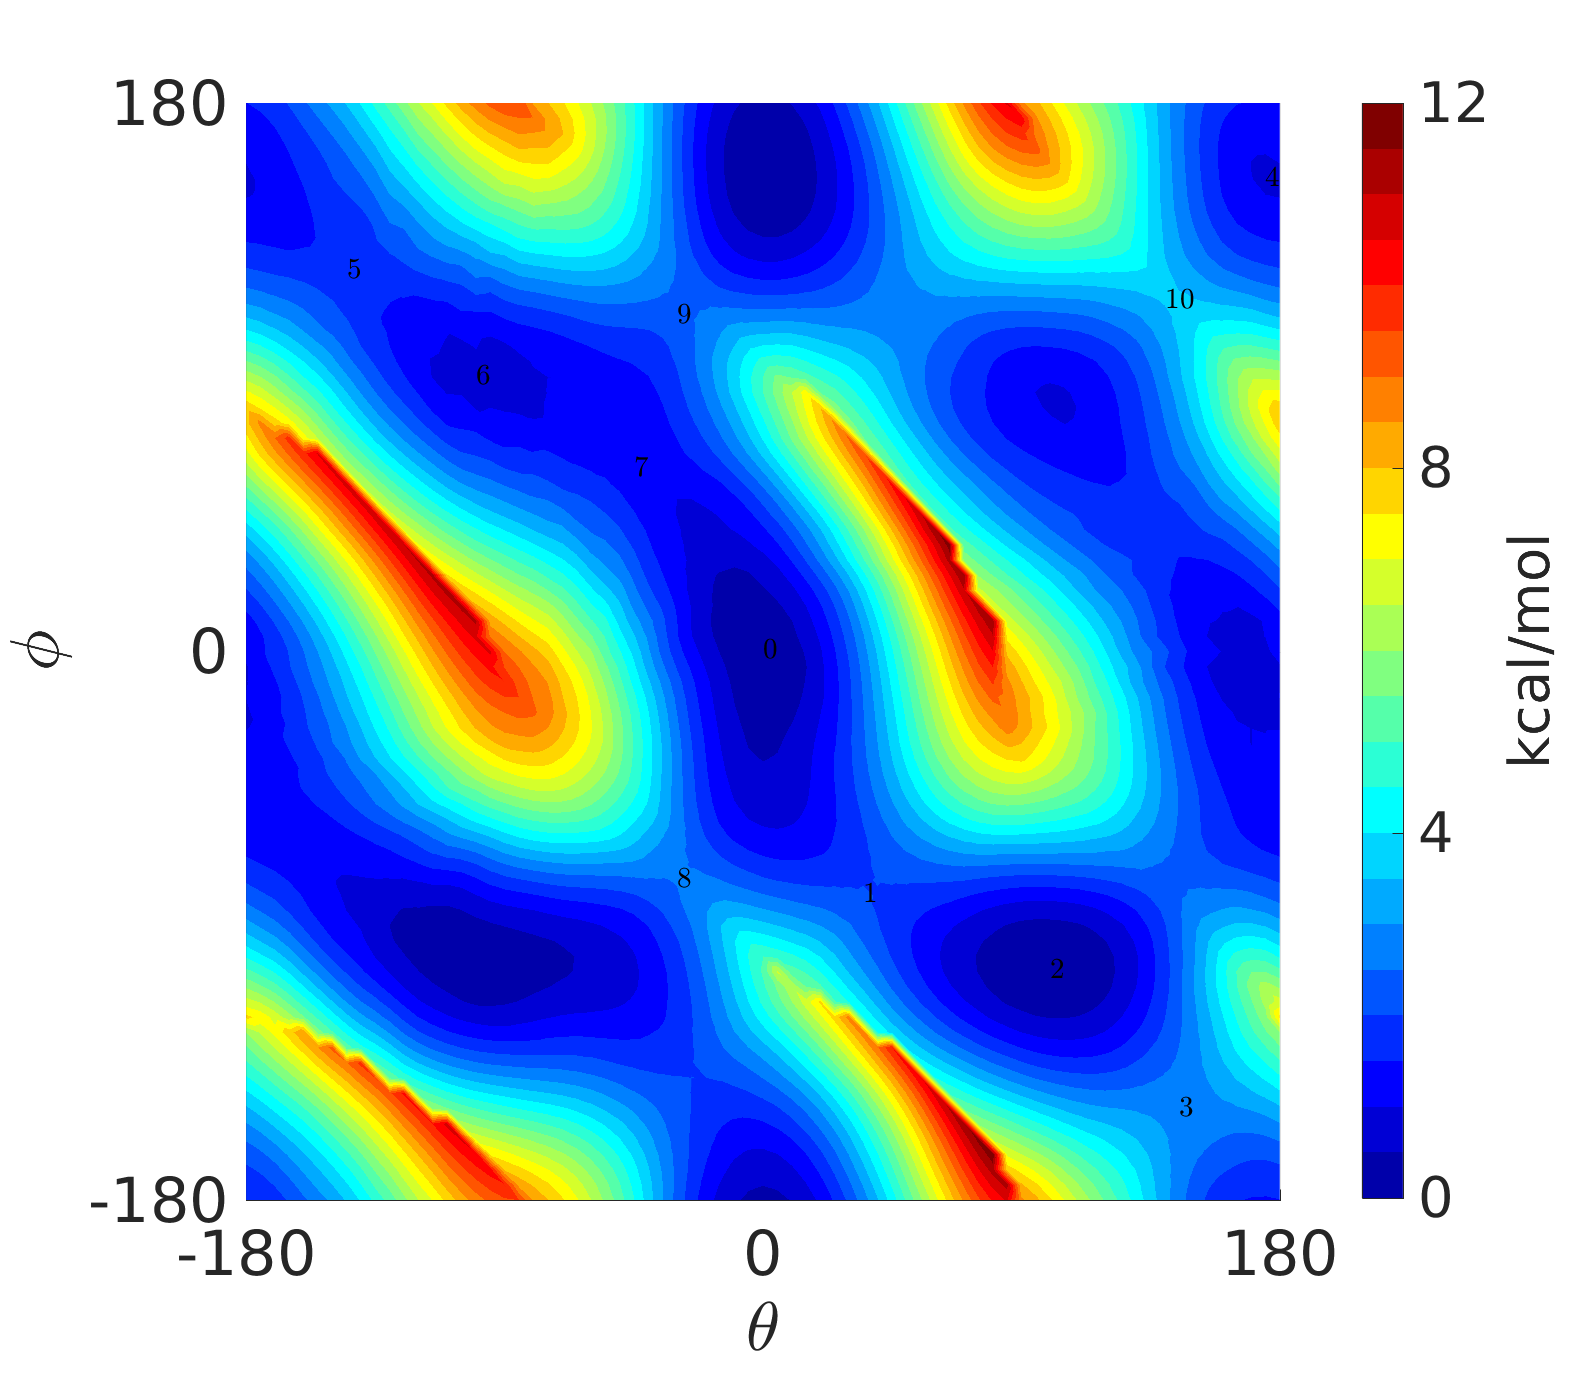
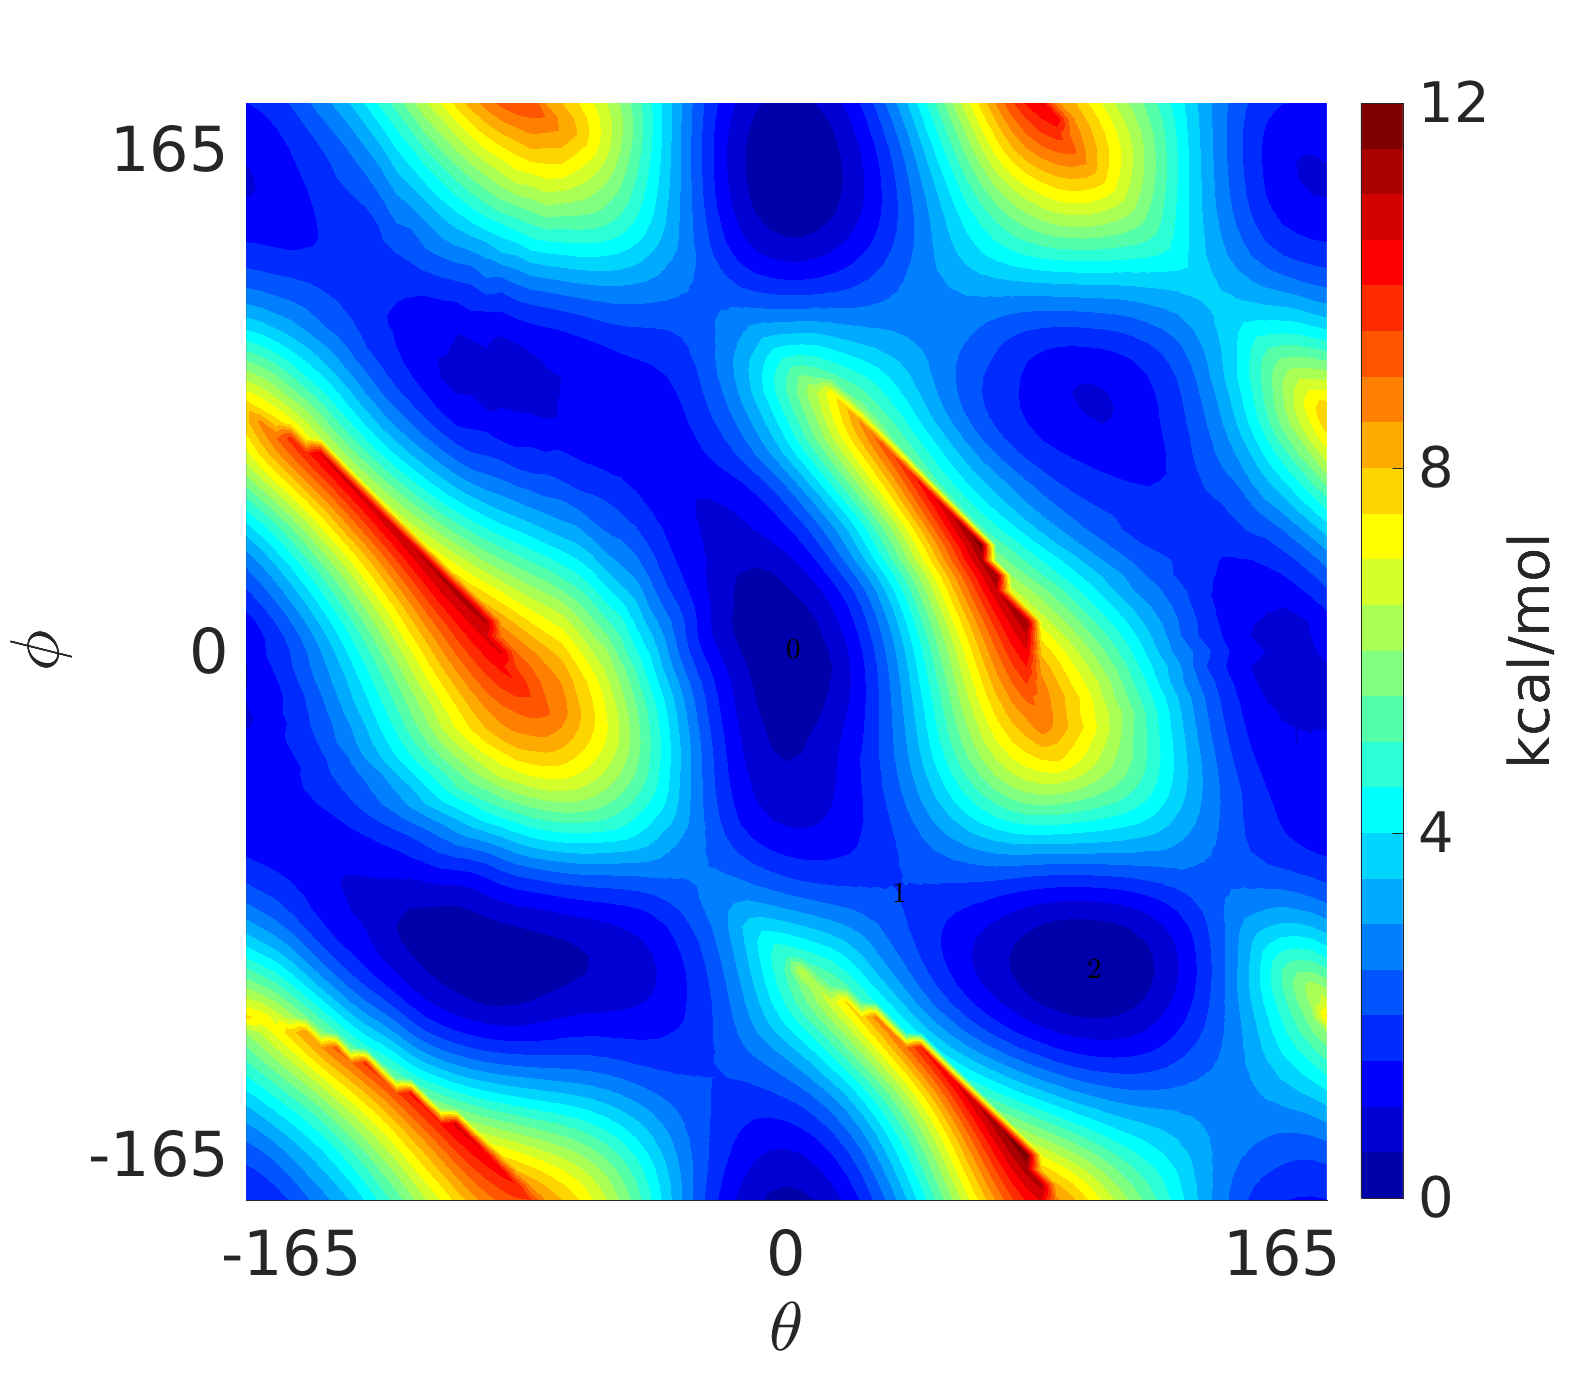
save

diff --git a/plot/plot_all.m b/plot/plot_all.m
@@ -1,24 +1,25 @@
 close all;
 
-ha = tight_subplot(2,3,[0.040, 0.050],[0.10, 0.03],[0.075 0.07]);
+set(0,'DefaultTextInterpreter', 'latex')
+ha = tight_subplot(2,3,[0.040, 0.040],[0.10, 0.03],[0.065 0.07]);
 axes(ha(1));
 surf(Xe,Ye,VE(:,:,1));
 view( 0,90);
 set_range
-xlabel('','Interpreter','LaTex')
+xlabel('','Interpreter','LaTex');
 set(gca,'XTickLabel',[]);
-ylabel('$\mathbf{\phi}$','Interpreter','LaTex')
-set(gca,'YTickLabel',['-180';'   0';' 180']);
+hy = ylabel('$\mathbf{\phi}$','Interpreter','LaTex'); hy.Position = hy.Position + [50, 0, 0];
+set(gca,'YTickLabel',['-180^{\circ}';'   0^{\circ}';' 180^{\circ}']);
 set(gca,'FontSize',24)
 caxis([0 12]);
 shading interp;
 colormap jet(18);
-t=text(20,20,10,'1a','Interpreter','LaTex');
-t.FontSize=30;
+t=text(140,160,10,'1a','Interpreter','LaTex');
+t.FontSize=32;
 %-------------------------------------------
 labels=LB(:,:,1);
 hold on
-plot3(labels(:,1)', labels(:,2)', ones(size(labels(:,1)))'*10, '*w', 'LineWidth', 1.5);
+plot3(labels(:,1)', labels(:,2)', ones(size(labels(:,1)))'*10, ':*w', 'LineWidth', 1.5);
 
 %{
 for i=1:length(labels)
@@ -42,12 +43,12 @@ set(gca,'FontSize',24)
 caxis([0 12]);
 shading interp;
 colormap jet(18);
-t=text(20,20,10,'1b','Interpreter','LaTex');
-t.FontSize=30;
+t=text(140,160,10,'1b','Interpreter','LaTex');
+t.FontSize=32;
 %-------------------------------------------
 labels=LB(:,:,2);
 hold on
-plot3(labels(:,1)', labels(:,2)', ones(size(labels(:,1)))'*10, '*w', 'LineWidth', 1.5);
+plot3(labels(:,1)', labels(:,2)', ones(size(labels(:,1)))'*10, ':*w', 'LineWidth', 1.5);
 
 %{
 for i=1:length(labels)
@@ -71,12 +72,12 @@ set(gca,'FontSize',24)
 caxis([0 12]);
 shading interp;
 colormap jet(18);
-t=text(20,20,10,'1c','Interpreter','LaTex');
-t.FontSize=30;
+t=text(140,160,10,'1c','Interpreter','LaTex');
+t.FontSize=32;
 %-------------------------------------------
 labels=LB(:,:,3);
 hold on
-plot3(labels(:,1)', labels(:,2)', ones(size(labels(:,1)))'*10, '*w', 'LineWidth', 1.5);
+plot3(labels(:,1)', labels(:,2)', ones(size(labels(:,1)))'*10, ':*w', 'LineWidth', 1.5);
 
 %{
 for i=1:length(labels)
@@ -92,20 +93,20 @@ axes(ha(4));
 surf(Xe,Ye,VE(:,:,4));
 view( 0,90);
 set_range
-set(gca,'XTickLabel',['-180';'   0';' 180']);
-set(gca,'YTickLabel',['-180';'   0';' 180']);
-xlabel('$\mathbf{\theta}$','Interpreter','LaTex')
-ylabel('$\mathbf{\phi}$','Interpreter','LaTex')
+set(gca,'XTickLabel',['-180^{\circ}';'   0^{\circ}';' 180^{\circ}']);
+set(gca,'YTickLabel',['-180^{\circ}';'   0^{\circ}';' 180^{\circ}']);
+hx = xlabel('$\mathbf{\theta}$','Interpreter','LaTex');  hx.Position = hx.Position + [6, 0, 0];
+hy = ylabel('$\mathbf{\phi}$','Interpreter','LaTex');    hy.Position = hy.Position + [65, 0, 0];
 set(gca,'FontSize',24)
 caxis([0 12]);
 shading interp;
 colormap jet(18);
-t=text(20,20,10,'1d','Interpreter','LaTex');
-t.FontSize=30;
+t=text(140,160,10,'1d','Interpreter','LaTex');
+t.FontSize=32;
 %-------------------------------------------
 labels=LB(:,:,4);
 hold on
-plot3(labels(:,1)', labels(:,2)', ones(size(labels(:,1)))'*10, '*w', 'LineWidth', 1.5);
+plot3(labels(:,1)', labels(:,2)', ones(size(labels(:,1)))'*10, ':*w', 'LineWidth', 1.5);
 
 %{
 for i=1:length(labels)
@@ -121,8 +122,8 @@ axes(ha(5));
 surf(Xe,Ye,VE(:,:,5));
 view( 0,90);
 set_range
-set(gca,'XTickLabel',['-180';'   0';' 180']);
-xlabel('$\mathbf{\theta}$','Interpreter','LaTex')
+set(gca,'XTickLabel',['-180^{\circ}';'   0^{\circ}';' 180^{\circ}']);
+hx = xlabel('$\mathbf{\theta}$','Interpreter','LaTex');  hx.Position = hx.Position + [5, 0, 0];
 set(gca,'YTickLabel',[]);
 ylabel('','Interpreter','LaTex')
 
@@ -130,12 +131,12 @@ set(gca,'FontSize',24)
 caxis([0 12]);
 shading interp;
 colormap jet(18);
-t=text(20,20,10,'1e','Interpreter','LaTex');
-t.FontSize=30;
+t=text(140,160,10,'1e','Interpreter','LaTex');
+t.FontSize=32;
 %-------------------------------------------
 labels=LB(:,:,5);
 hold on
-plot3(labels(:,1)', labels(:,2)', ones(size(labels(:,1)))'*10, '*w', 'LineWidth', 1.5);
+plot3(labels(:,1)', labels(:,2)', ones(size(labels(:,1)))'*10, ':*w', 'LineWidth', 1.5);
 
 %{
 for i=1:length(labels)
@@ -151,20 +152,20 @@ axes(ha(6));
 surf(Xe,Ye,VE(:,:,6));
 view( 0,90);
 set_range
-set(gca,'XTickLabel',['-180';'   0';' 180']);
-xlabel('$\mathbf{\theta}$','Interpreter','LaTex')
+set(gca,'XTickLabel',['-180^{\circ}';'   0^{\circ}';' 180^{\circ}']);
+h = xlabel('$\mathbf{\theta}$','Interpreter','LaTex');  h.Position = h.Position + [6, 0, 0];
 set(gca,'YTickLabel',[]);
 ylabel('','Interpreter','LaTex')
 set(gca,'FontSize',24)
 caxis([0 12]);
 shading interp;
 colormap jet(18);
-t=text(20,20,10,'1f','Interpreter','LaTex');
-t.FontSize=30;
+t=text(140,160,10,'1f','Interpreter','LaTex');
+t.FontSize=32;
 %-------------------------------------------
 labels=LB(:,:,6);
 hold on
-plot3(labels(:,1)', labels(:,2)', ones(size(labels(:,1)))'*10, '*w', 'LineWidth', 1.5);
+plot3(labels(:,1)', labels(:,2)', ones(size(labels(:,1)))'*10, ':*w', 'LineWidth', 1.5);
 
 %{
 for i=1:length(labels)

diff --git a/plot/plotPATH.m b/plot/plotPATH.m
@@ -1,42 +1,27 @@
 clc, clear, close all;
 n = 36;
 
-system1 = '1001';
-system2 = '1101';
-system3 = '1111';
-system4 = '10n01';
-system5 = '11n01';
-system6 = '11n11';
+E(1,:) = [-765.8625284, -765.8593637, -765.8626253];
+E(2,:) = [-805.1941033, -805.1899081, -805.1983216];
+E(3,:) = [-844.5291226, -844.5235069, -844.5292216];
+E(4,:) = [-688.2160957, -688.2143823, -688.2165736];
+E(5,:) = [-727.5472373, -727.5412896, -727.5466693];
+E(6,:) = [-766.8750755, -766.8725223, -766.8762837];
 
-method = '_wB97M-V';
+E(1,:) = (E(1,:)-min(E(1,:)))*627.509;
+E(2,:) = (E(2,:)-min(E(2,:)))*627.509;
+E(3,:) = (E(3,:)-min(E(3,:)))*627.509;
+E(4,:) = (E(4,:)-min(E(4,:)))*627.509;
+E(5,:) = (E(5,:)-min(E(5,:)))*627.509;
+E(6,:) = (E(6,:)-min(E(6,:)))*627.509;
 
-A(:,:,1) = dlmread(strcat('../qchem_path_', system1, method, '_None_aug-cc-pVTZ/energies'));
-A(:,:,2) = dlmread(strcat('../qchem_path_', system2, method, '_None_aug-cc-pVTZ/energies'));
-A(:,:,3) = dlmread(strcat('../qchem_path_', system3, method, '_None_aug-cc-pVTZ/energies'));
-A(:,:,4) = dlmread(strcat('../qchem_path_', system4, method, '_None_aug-cc-pVTZ/energies'));
-A(:,:,5) = dlmread(strcat('../qchem_path_', system5, method, '_None_aug-cc-pVTZ/energies'));
-A(:,:,6) = dlmread(strcat('../qchem_path_', system6, method, '_None_aug-cc-pVTZ/energies'));
+hx = tight_subplot(1,3,[0.040, 0.020],[0.10, 0.03],[0.05 0.01]);
+% axes(hx(1)); plot(1:3, E(1,:),  '-r^', 'MarkerFaceColor', 'r', 'MarkerEdgeColor', 'k','MarkerSize', 7, 'linewidth', 1.5); xlim([0.7,3.3]); ylim([0,8]); xticks([1:3]); xticklabels(['[        ]'; '[        ]'; '[        ]']);                  legend('1a'); hold on; ylabel('\textbf{kcal/mol}', 'Interpreter', 'latex', 'FontSize', 15);
+% axes(hx(2)); plot(1:3, E(2,:),  '-ro', 'MarkerFaceColor', 'r', 'MarkerEdgeColor', 'k','MarkerSize', 7, 'linewidth', 1.0); xlim([0.7,3.3]); ylim([0,8]); xticks([1:3]); xticklabels(['[        ]'; '[        ]'; '[        ]']); yticklabels([]); legend('1b'); hold on;
+% axes(hx(3)); plot(1:3, E(3,:),  '-rs', 'MarkerFaceColor', 'r', 'MarkerEdgeColor', 'k','MarkerSize', 9, 'linewidth', 1.0); xlim([0.7,3.3]); ylim([0,8]); xticks([1:3]); xticklabels(['[        ]'; '[        ]'; '[        ]']); yticklabels([]); legend('1c'); hold on;
+% set(gcf, 'Position', [0, 0, 1200, 516]);
 
-E(:,1) = (A(:,3,1)-min(A(:,3,1)))'*627.509;
-E(:,2) = (A(:,3,2)-min(A(:,3,2)))'*627.509;
-E(:,3) = (A(:,3,3)-min(A(:,3,3)))'*627.509;
-E(:,4) = (A(:,3,4)-min(A(:,3,4)))'*627.509;
-E(:,5) = (A(:,3,5)-min(A(:,3,5)))'*627.509;
-E(:,6) = (A(:,3,6)-min(A(:,3,6)))'*627.509;
-
-set(gcf, 'Position', [0, 0, 1000, 550]);
-
-plot(1:9, E(:,1), ':ro',  ...
-     1:9, E(:,4), ':bo',  ...
-     1:9, E(:,2), '-ro',  ...
-     1:9, E(:,5), '-bo',  ...
-     1:9, E(:,3), '--ro', ...
-     1:9, E(:,6), '--bo', ...
-     'linewidth', 2);
-columnlegend(3, cellstr(['102/1a'; '065/1d'; '121/1b'; '094/1e'; '096/1c'; '088/1f']),'Orientation','vertical','location', 'north', 'boxon');
-ylim([0,5]);
-xlabel('config');
-ylabel('kcal/mol');
-xticks(1:length(E));
-xticklabels(string([0:length(E)-2,0]));
-yticks(0:5);
+axes(hx(1)); plot(1:3, E(4,:),  '-b^', 'MarkerFaceColor', 'b', 'MarkerEdgeColor', 'k','MarkerSize', 7, 'linewidth', 1.5); xlim([0.7,3.3]); ylim([0,6]); xticks([1:3]); xticklabels(['[        ]'; '[        ]'; '[        ]']);                  legend('1d'); hold on; ylabel('\textbf{kcal/mol}', 'Interpreter', 'latex', 'FontSize', 15);
+axes(hx(2)); plot(1:3, E(5,:),  '-bo', 'MarkerFaceColor', 'b', 'MarkerEdgeColor', 'k','MarkerSize', 7, 'linewidth', 1.0); xlim([0.7,3.3]); ylim([0,6]); xticks([1:3]); xticklabels(['[        ]'; '[        ]'; '[        ]']); yticklabels([]); legend('1e'); hold on;
+axes(hx(3)); plot(1:3, E(6,:),  '-bs', 'MarkerFaceColor', 'b', 'MarkerEdgeColor', 'k','MarkerSize', 9, 'linewidth', 1.0); xlim([0.7,3.3]); ylim([0,6]); xticks([1:3]); xticklabels(['[        ]'; '[        ]'; '[        ]']); yticklabels([]); legend('1f'); hold on;
+set(gcf, 'Position', [0, 0, 1200, 400]);

diff --git a/plot/plotPES.m b/plot/plotPES.m
@@ -1,17 +1,17 @@
 close all;
-clear;
 
 n = 72;
 
-system = '1001';
-method = '_B3LYP';
+% system = '11n11';
+geoms  = 'connect';
 showpath = true;
 
 labels = [];
 
-if (strcmp(method, '_B3LYP'))
-    A = dlmread(strcat('../qchem_scan_', system, method, '_d3_op_6-311++G**/energies'));
-    if (showpath==true)
+A = dlmread(strcat('../qchem_scan_', system, '_B3LYP', '_d3_op_6-311++G**/energies'));
+
+if (showpath==true)
+    if (strcmp(geoms, 'critical'))
         switch system
             case '1001'  %[ 24.4, -22.8]
                 labels = [[0,0]; [ 35, -80]; [100, -105]; [145, -150]; [175, 155]; [-145, 125]; [-100,   90]; [-45, 60]; [-30, -75]; [-30,110]; [140,115];];
@@ -27,24 +27,20 @@ if (strcmp(method, '_B3LYP'))
             case '11n11' %[ 135.7, -58.7];
                 labels = [[   0,   0]; [ 40, -40]; [90,-75]; [125, -120]; [165,-170]; [-140, 155]; [-80, 110]; [ -40, 60]];
         end
-    end
-elseif (strcmp(method, '_RIMP2'))
-    A = dlmread(strcat('../qchem_sp_', system, method, '_None_aug-cc-pVDZ/energies'));  
-    if (showpath==true)        
+    elseif (strcmp(geoms, 'connect'))
         switch system
             case '1001'
-                labels=[[  0,360]; [ 35,310]; [ 95,275]; [135,240]; [180,213]; [199,150]; [247,102]; [318, 78];];
+                labels = [[  0,  0]; [ 35, -80]; [100, -105]];
             case '1101'
-                labels=[[  0,360]; [ 65,310]; [ 78,250]; [178,195]; [225,148]; [252, 90]; [310, 70]; ...
-                        [358,190]; [ 45,135]; [100, 90]; [120, 65]; [182,  3]; [240,315]; [295,240];];
+                labels = [[  0,  0]; [ 40, -60]; [ 95, -105]];
             case '1111'
-                labels=[[  0,360]; [ 62,325]; [ 85,255]; [130,200]; [185,195]; [230,160]; [257, 92]; [298, 40];];
+                labels = [[  0,  0]; [ 55, -40]; [ 95,  -90]];
             case '10n01'
-                labels=[[  0,360]; [ 44,302]; [ 90,245]; [150,198]; [176,180]; [198,153]; [248, 87]; [302, 43];];
+                labels = [[  0,  0]; [ 40, -60]; [ 90, -120]];
             case '11n01'
-                labels=[[  0,360]; [108,253]; [230,130]; [293, 72]; [  0,190]; [118, 72]; [212,335]; [288, 255];];
+                labels = [[  0,  0]; [ 70, -90]; [130, -145]];
             case '11n11'
-                labels=[[  0,360]; [ 40,313]; [ 75,268]; [133,226]; [187,185]; [223,136]; [265, 77]; [310, 46];];
+                labels = [[  0,  0]; [ 40, -40]; [ 90,  -75]];
         end
     end
 end
@@ -81,4 +77,4 @@ for i=1:size(labels,1)
     text(labels(i,1),labels(i,2),10,num2str(i-1),'Interpreter','LaTex','FontSize',14,'Color','black');
 end
 
-print(strcat('./', system, method), '-dpng')
+print(strcat('./', system, '_B3LYP'), '-dpng')

diff --git a/plot/set_range.m b/plot/set_range.m
@@ -1,4 +1,8 @@
 set(gca,'xlim',[-180 180]);
 set(gca,'ylim',[-180 180]);
+
+% set(gca,'XTick',[-165:165:165]);
+% set(gca,'YTick',[-165:165:165]);
+
 set(gca,'XTick',[-180:180:180]);
 set(gca,'YTick',[-180:180:180]);
